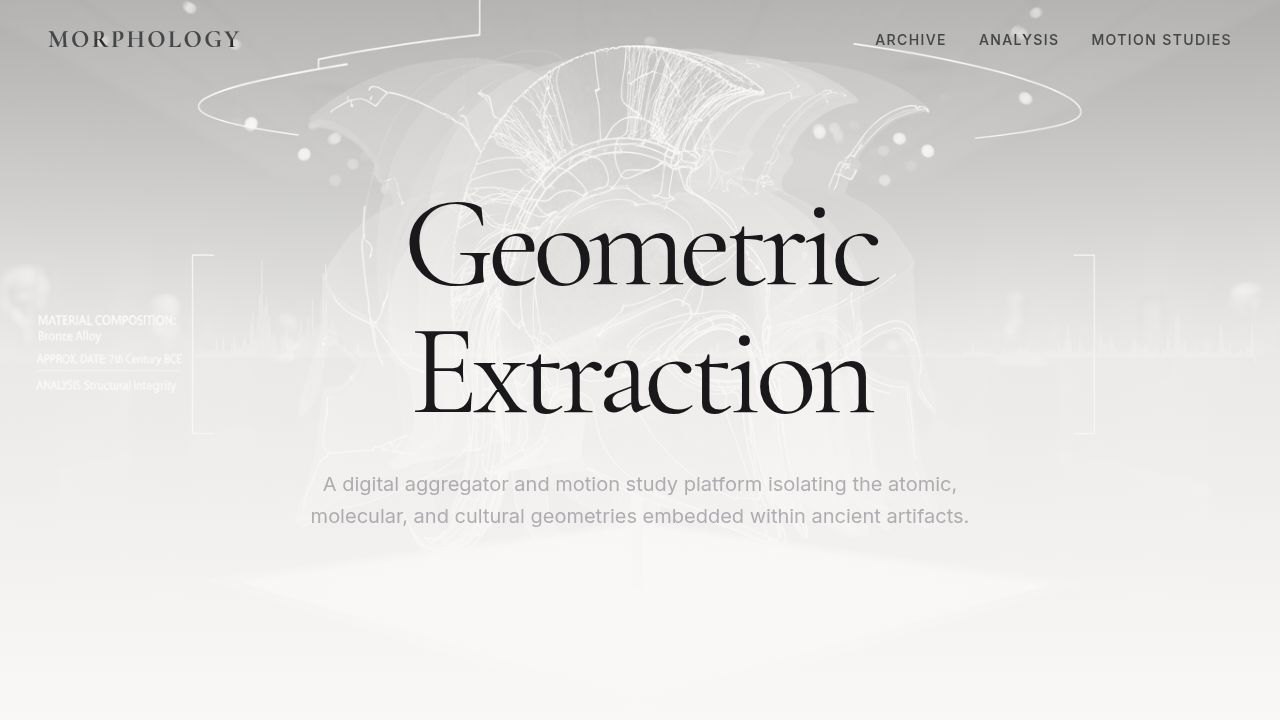
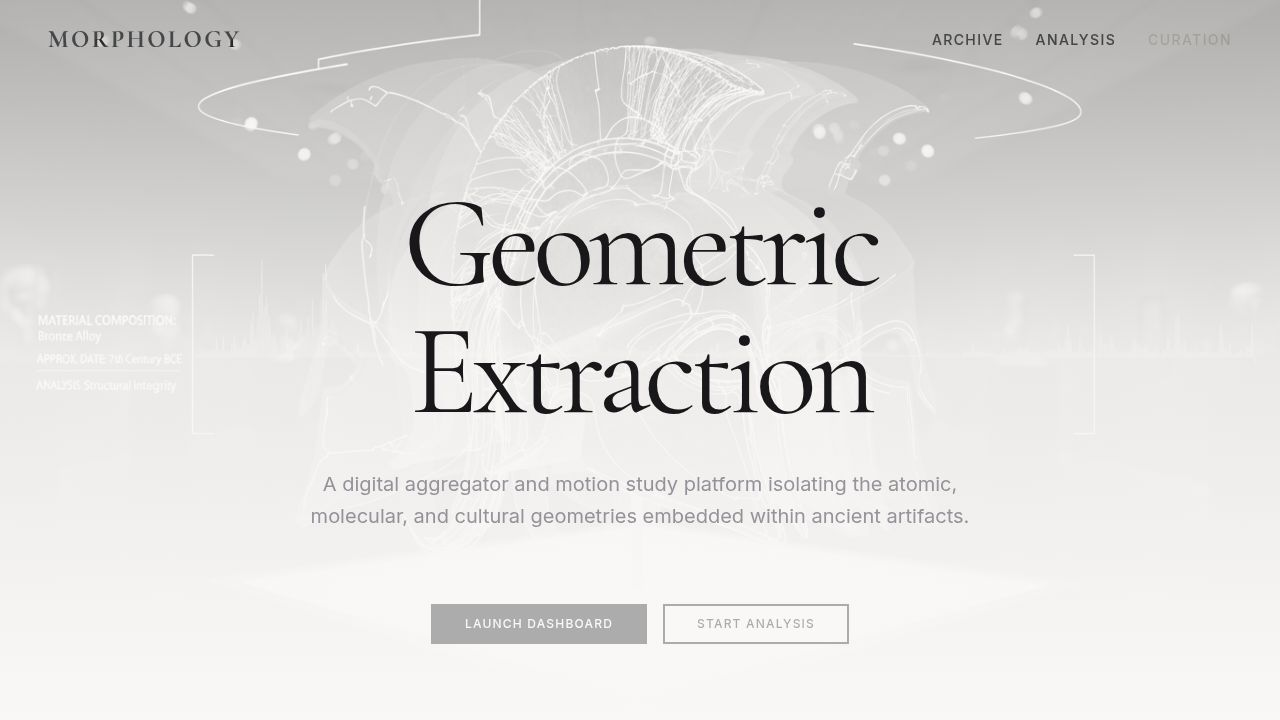
Add a comprehensive curation dashboard for managing image workflows
Create a new Dashboard page component, integrate it into the application's routing, and add navigation links from the Home page to access the new Curation Dashboard.

Replit-Commit-Author: Agent
Replit-Commit-Session-Id: 0d00d434-be47-4a2b-b53d-cc99ae812125
Replit-Commit-Checkpoint-Type: full_checkpoint
Replit-Commit-Event-Id: 07884200-44f1-4c12-830d-05ed5540286f
Replit-Commit-Screenshot-Url: https://storage.googleapis.com/screenshot-production-us-central1/83ee72e2-2eb7-40ef-ab99-fc5b93d9bf2b/0d00d434-be47-4a2b-b53d-cc99ae812125/3CE2N4W
Replit-Helium-Checkpoint-Created: true

Changed region(s): [[0.3125, 0.825, 0.5312, 0.9167], [0.6875, 0.0306, 0.9688, 0.0611], [0.5625, 0.8556, 0.625, 0.8861]]

diff --git a/client/src/pages/Dashboard.tsx b/client/src/pages/Dashboard.tsx
@@ -1,0 +1,183 @@
+import { useState } from "react";
+import { Link } from "wouter";
+import { motion } from "framer-motion";
+import { ArrowLeft, Check, X, AlertTriangle, Activity, Settings, Database, Image as ImageIcon } from "lucide-react";
+import { Button } from "@/components/ui/button";
+import { Tabs, TabsContent, TabsList, TabsTrigger } from "@/components/ui/tabs";
+import { Badge } from "@/components/ui/badge";
+
+export default function Dashboard() {
+  return (
+    <div className="min-h-screen bg-background text-foreground">
+      {/* Navigation */}
+      <nav className="border-b border-border px-6 py-4 flex justify-between items-center bg-background/95 backdrop-blur z-50 sticky top-0">
+        <div className="flex items-center gap-6">
+          <Link href="/">
+            <Button variant="ghost" size="icon" className="rounded-none">
+              <ArrowLeft className="w-5 h-5" />
+            </Button>
+          </Link>
+          <div className="font-display text-xl font-bold tracking-widest uppercase">
+            Curation Dashboard
+          </div>
+        </div>
+        <div className="flex gap-4 items-center">
+          <Badge variant="outline" className="rounded-none font-sans uppercase tracking-widest text-[10px] flex items-center gap-2">
+            <span className="w-2 h-2 rounded-full bg-green-500 animate-pulse"></span>
+            System Active
+          </Badge>
+        </div>
+      </nav>
+
+      {/* Main Content */}
+      <main className="max-w-[1600px] mx-auto p-6 md:p-12">
+        <Tabs defaultValue="approvals" className="w-full">
+          <TabsList className="grid grid-cols-4 rounded-none h-14 bg-muted mb-12">
+            <TabsTrigger value="approvals" className="rounded-none font-sans uppercase tracking-widest text-xs data-[state=active]:bg-primary data-[state=active]:text-primary-foreground">
+              Approval Gates
+            </TabsTrigger>
+            <TabsTrigger value="activity" className="rounded-none font-sans uppercase tracking-widest text-xs data-[state=active]:bg-primary data-[state=active]:text-primary-foreground">
+              Live Feed
+            </TabsTrigger>
+            <TabsTrigger value="batch" className="rounded-none font-sans uppercase tracking-widest text-xs data-[state=active]:bg-primary data-[state=active]:text-primary-foreground">
+              Batch Jobs
+            </TabsTrigger>
+            <TabsTrigger value="settings" className="rounded-none font-sans uppercase tracking-widest text-xs data-[state=active]:bg-primary data-[state=active]:text-primary-foreground">
+              Parameters
+            </TabsTrigger>
+          </TabsList>
+
+          <TabsContent value="approvals" className="space-y-8 animate-in fade-in-50 duration-500">
+            <div className="flex justify-between items-end mb-8">
+              <div>
+                <h2 className="font-serif text-3xl mb-2">Pending Review</h2>
+                <p className="font-sans text-muted-foreground">Artifacts awaiting deployment to curriculum sections.</p>
+              </div>
+              <div className="flex gap-2">
+                <Button variant="outline" className="rounded-none uppercase tracking-widest text-xs">Approve All</Button>
+              </div>
+            </div>
+
+            <div className="grid grid-cols-1 md:grid-cols-2 lg:grid-cols-3 gap-8">
+              {/* Sample Approval Card */}
+              {[1, 2, 3].map((i) => (
+                <div key={i} className="border border-border p-4 space-y-4 bg-card/50 transition-colors hover:bg-card">
+                  <div className="aspect-[4/3] bg-muted relative overflow-hidden group">
+                    <img src={i === 1 ? `/images/artifact_mesopotamian.png` : i === 2 ? `/images/artifact_egypt.png` : `/images/artifact_greek.png`} alt="Candidate" className="object-cover w-full h-full opacity-80 group-hover:scale-105 transition-transform duration-700" />
+                    <div className="absolute top-2 left-2 flex flex-col gap-2">
+                      <Badge className="rounded-none bg-black/80 text-white font-mono text-[10px]">CLIP: {0.96 - (i * 0.02)}</Badge>
+                      <Badge className="rounded-none bg-black/80 text-white font-mono text-[10px]">SafeSearch: Pass</Badge>
+                    </div>
+                  </div>
+                  <div>
+                    <div className="flex justify-between items-center mb-1">
+                      <h4 className="font-sans font-bold text-sm uppercase tracking-wider">Candidate #{i}</h4>
+                      <span className="text-xs text-muted-foreground font-mono">Source: MET API</span>
+                    </div>
+                    <p className="text-sm font-serif text-muted-foreground line-clamp-2">Assigned to Section: Structural Geometry - Ancient Near East.</p>
+                  </div>
+                  <div className="flex gap-2 pt-2 border-t border-border">
+                    <Button size="sm" className="flex-1 rounded-none bg-green-900/50 hover:bg-green-900 text-white border border-green-800">
+                      <Check className="w-4 h-4 mr-2" /> Approve
+                    </Button>
+                    <Button size="sm" variant="outline" className="flex-1 rounded-none border-red-900/50 text-red-500 hover:bg-red-950/30">
+                      <X className="w-4 h-4 mr-2" /> Reject
+                    </Button>
+                    <Button size="sm" variant="outline" className="flex-1 rounded-none border-yellow-900/50 text-yellow-500 hover:bg-yellow-950/30">
+                      <AlertTriangle className="w-4 h-4 mr-2" /> Flag
+                    </Button>
+                  </div>
+                </div>
+              ))}
+            </div>
+          </TabsContent>
+
+          <TabsContent value="activity" className="space-y-6 animate-in fade-in-50 duration-500">
+            <h2 className="font-serif text-3xl mb-8">Autonomous Agents Log</h2>
+            <div className="border border-border p-6 font-mono text-sm space-y-4 bg-black text-green-500 h-[600px] overflow-y-auto shadow-inner">
+              <div className="flex gap-4"><span className="text-muted-foreground">[14:32:01]</span><span>[PULLER] Detected empty section A2 (Greek Pottery). Triggering search...</span></div>
+              <div className="flex gap-4"><span className="text-muted-foreground">[14:32:05]</span><span className="text-blue-400">[MET_API] Found 42 results for 'Geometric Krater'. Filtering by CC0...</span></div>
+              <div className="flex gap-4"><span className="text-muted-foreground">[14:32:08]</span><span>[ANALYZER] Computing CLIP scores against section context...</span></div>
+              <div className="flex gap-4"><span className="text-muted-foreground">[14:32:12]</span><span className="text-yellow-500">[ROUTER] Pushed top 3 candidates to Approval Gate.</span></div>
+              <div className="flex gap-4"><span className="text-muted-foreground">[14:35:22]</span><span>[TAGGER] Processed batch #8992. Identified: 'atomic', 'symmetry', 'radial'.</span></div>
+              <div className="flex gap-4"><span className="text-muted-foreground">[14:40:00]</span><span className="text-red-400">[DIAGRAM_GEN] Flagged artifact MES-01 requires structural overlay. Queuing gpt-image-2 generation...</span></div>
+              <div className="flex gap-4"><span className="text-muted-foreground">[14:41:15]</span><span className="text-green-400">[GPT_IMAGE] Successfully generated diagram overlay for MES-01 (Quality: high).</span></div>
+              <div className="flex gap-4"><span className="text-muted-foreground animate-pulse">_</span></div>
+            </div>
+          </TabsContent>
+
+          <TabsContent value="batch" className="space-y-8 animate-in fade-in-50 duration-500">
+            <h2 className="font-serif text-3xl mb-8">Ingestion & Batch Jobs</h2>
+            <div className="grid grid-cols-1 md:grid-cols-2 gap-8">
+              <div className="border border-border p-8 bg-card/20 space-y-6 hover:border-primary/50 transition-colors">
+                <Database className="w-8 h-8 text-primary" />
+                <h3 className="font-sans text-xl uppercase tracking-widest">RWI Needs Sync</h3>
+                <p className="font-serif text-muted-foreground text-sm">Sync missing artifacts requested by the Read-Write-Interface editor.</p>
+                <div className="space-y-2">
+                  <div className="flex justify-between text-sm font-mono"><span className="text-muted-foreground">Pending Items</span><span>24</span></div>
+                  <div className="flex justify-between text-sm font-mono"><span className="text-muted-foreground">Last Sync</span><span>10 mins ago</span></div>
+                </div>
+                <Button className="w-full rounded-none uppercase tracking-widest text-xs">Run Sync</Button>
+              </div>
+
+              <div className="border border-border p-8 bg-card/20 space-y-6 hover:border-primary/50 transition-colors">
+                <ImageIcon className="w-8 h-8 text-primary" />
+                <h3 className="font-sans text-xl uppercase tracking-widest">Met Museum Scraper</h3>
+                <p className="font-serif text-muted-foreground text-sm">Bulk download CC0 images matching predefined aesthetic parameters.</p>
+                <div className="space-y-2">
+                  <div className="flex justify-between text-sm font-mono"><span className="text-muted-foreground">Rate Limit</span><span>80 req/sec</span></div>
+                  <div className="flex justify-between text-sm font-mono"><span className="text-muted-foreground">Storage</span><span>Local / JSON</span></div>
+                </div>
+                <Button variant="outline" className="w-full rounded-none uppercase tracking-widest text-xs border-primary text-primary hover:bg-primary hover:text-primary-foreground">Start Scrape</Button>
+              </div>
+            </div>
+          </TabsContent>
+
+          <TabsContent value="settings" className="space-y-8 animate-in fade-in-50 duration-500">
+            <h2 className="font-serif text-3xl mb-8">System Parameters</h2>
+            <div className="max-w-2xl border border-border p-8 bg-card/10 space-y-8">
+              
+              <div className="space-y-4 border-b border-border pb-8">
+                <h4 className="font-sans uppercase tracking-widest text-sm font-bold">GPT Image Generation</h4>
+                <div className="grid grid-cols-3 gap-4">
+                  <div className="border border-border p-4 cursor-pointer hover:bg-primary/5 transition-colors">
+                    <div className="font-mono text-xs mb-2 text-muted-foreground">Model</div>
+                    <div className="font-serif text-lg">gpt-image-2</div>
+                  </div>
+                  <div className="border border-primary bg-primary/10 p-4 cursor-pointer">
+                    <div className="font-mono text-xs mb-2 text-primary">Quality</div>
+                    <div className="font-serif text-lg">high</div>
+                  </div>
+                  <div className="border border-border p-4 cursor-pointer hover:bg-primary/5 transition-colors">
+                    <div className="font-mono text-xs mb-2 text-muted-foreground">Style</div>
+                    <div className="font-serif text-lg">diagrammatic</div>
+                  </div>
+                </div>
+              </div>
+
+              <div className="space-y-4">
+                <h4 className="font-sans uppercase tracking-widest text-sm font-bold">Autonomous Thresholds</h4>
+                <div className="space-y-4 font-mono text-sm">
+                  <div className="flex justify-between items-center p-3 hover:bg-muted/50 transition-colors">
+                    <span className="text-muted-foreground">Minimum CLIP Score</span>
+                    <span className="px-3 py-1 border border-border bg-background">0.85</span>
+                  </div>
+                  <div className="flex justify-between items-center p-3 hover:bg-muted/50 transition-colors">
+                    <span className="text-muted-foreground">Auto-Approve Threshold</span>
+                    <span className="px-3 py-1 border border-border bg-background">0.98</span>
+                  </div>
+                  <div className="flex justify-between items-center p-3 hover:bg-muted/50 transition-colors">
+                    <span className="text-muted-foreground">SafeSearch Strictness</span>
+                    <span className="px-3 py-1 border border-border bg-background">High</span>
+                  </div>
+                </div>
+              </div>
+
+            </div>
+          </TabsContent>
+
+        </Tabs>
+      </main>
+    </div>
+  );
+}

diff --git a/client/src/pages/Home.tsx b/client/src/pages/Home.tsx
@@ -15,7 +15,7 @@ export default function Home() {
         <div className="flex gap-8 text-sm uppercase tracking-widest font-sans font-medium">
           <Link href="/archive" className="hover:opacity-60 transition-opacity">Archive</Link>
           <Link href="/analysis" className="hover:opacity-60 transition-opacity">Analysis</Link>
-          <Link href="/motion" className="hover:opacity-60 transition-opacity">Motion Studies</Link>
+          <Link href="/dashboard" className="hover:opacity-60 transition-opacity text-primary">Curation</Link>
         </div>
       </nav>
 
@@ -52,9 +52,11 @@ export default function Home() {
              transition={{ duration: 0.6, delay: 0.8 }}
              className="flex gap-4 justify-center pt-8"
           >
-            <Button size="lg" className="rounded-none uppercase tracking-widest text-xs px-8 border-2 border-primary bg-primary text-primary-foreground hover:bg-transparent hover:text-primary transition-all duration-300">
-              Enter Archive
-            </Button>
+            <Link href="/dashboard">
+              <Button size="lg" className="rounded-none uppercase tracking-widest text-xs px-8 border-2 border-primary bg-primary text-primary-foreground hover:bg-transparent hover:text-primary transition-all duration-300">
+                Launch Dashboard
+              </Button>
+            </Link>
             <Link href="/analysis">
               <Button size="lg" variant="outline" className="rounded-none uppercase tracking-widest text-xs px-8 border-2 border-primary hover:bg-primary hover:text-primary-foreground transition-all duration-300">
                 Start Analysis

diff --git a/client/src/App.tsx b/client/src/App.tsx
@@ -5,6 +5,7 @@ import { Toaster } from "@/components/ui/toaster";
 import { TooltipProvider } from "@/components/ui/tooltip";
 import Home from "@/pages/Home";
 import Analysis from "@/pages/Analysis";
+import Dashboard from "@/pages/Dashboard";
 import NotFound from "@/pages/not-found";
 
 function Router() {
@@ -12,6 +13,7 @@ function Router() {
     <Switch>
       <Route path="/" component={Home}/>
       <Route path="/analysis" component={Analysis}/>
+      <Route path="/dashboard" component={Dashboard}/>
       <Route component={NotFound} />
     </Switch>
   );
